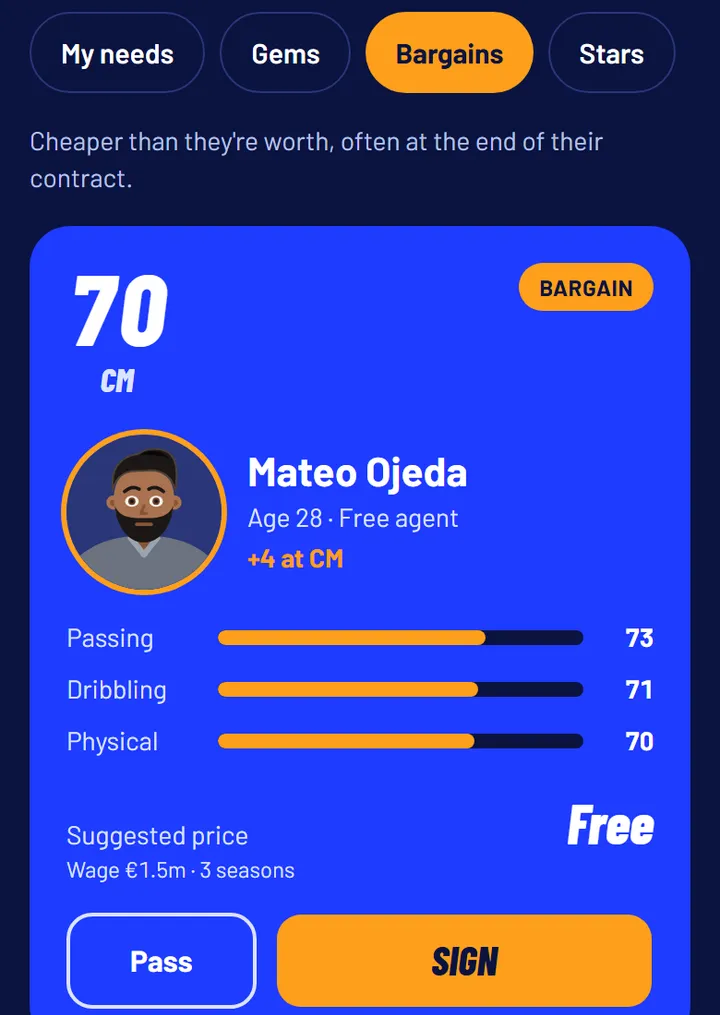
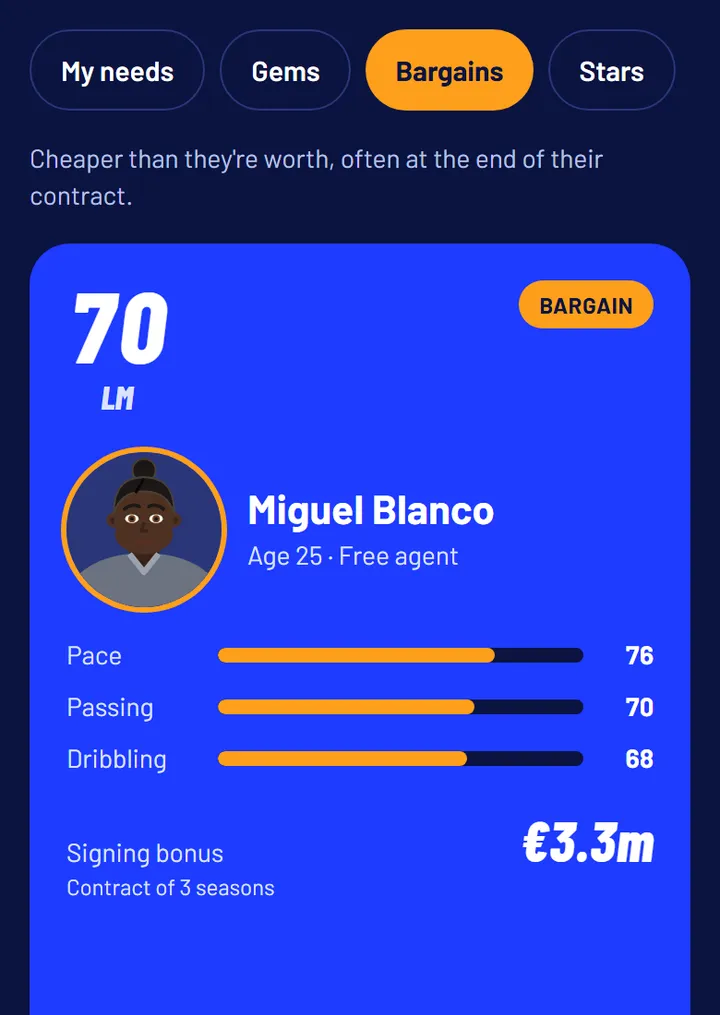
Met à jour le guide, l'accueil et ses captures pour l'adjoint
Le guide « Comment jouer » dit le budget seule limite, la prime à la
signature et les 30 joueurs, le onze que l'adjoint aligne et comment le
reprendre, et gagne une section « Ton adjoint » (composition, contrats,
ventes proposées, Club → Réglages). L'accueil reprend ces idées dans ses
paragraphes du marché et de la composition. Ses captures du marché et de la
composition sont refaites en français et en anglais, noms fictifs : un
joueur libre et sa prime à la signature, le onze de l'adjoint.

diff --git a/app/_content/how-to-play.ts b/app/_content/how-to-play.ts
@@ -1,6 +1,6 @@
 // The « How to play » guide (app/how-to-play, app/fr/comment-jouer), in French and English: from the creation of a career
-// to its first match, then the market, the line-up, the match events, the objectives, the European competitions, the
-// weekly challenge and the daily missions. In a
+// to its first match, then the market, the line-up, what the assistant takes care of, the match events, the objectives,
+// the European competitions, the weekly challenge and the daily missions. In a
 // string, **…** marks a label of the game's screens, as they read, shown in bold (GuideText, app/_components/documents).
 export type GuideBlock = string | string[]; // a paragraph, or the items of a list
 export type GuideText = { title: string; blocks: GuideBlock[] };
@@ -82,8 +82,8 @@ export const GUIDE: GuideSection[] = [
           "**Bonnes affaires** : moins chers que leur valeur",
           "**Stars** : les meilleurs, prêts à venir",
         ],
-        "**Passer** montre le suivant, **Recruter** puis **Confirmer** le signe. Tous acceptent ton club et tiennent dans ton budget transferts et ta marge salariale, ce qui reste sous ton plafond.",
-        "**Vendre** montre ce que les autres clubs offrent pour tes remplaçants. Tout se traite au mercato, du 1er juillet au 31 août, puis en janvier. **Marché complet : filtres, joueurs libres, mouvements** ouvre le reste.",
+        "**Passer** montre le suivant, **Recruter** puis **Confirmer** le signe. Tous acceptent ton club et tiennent dans ton budget transferts, ta seule limite : un joueur libre ne coûte pas d'indemnité, mais une **Prime à la signature**. Ton effectif compte 30 joueurs au plus.",
+        "Sous **Vendre**, **Ton adjoint propose** de vendre ceux qui ne jouent pas : **Vendre** les cède aussitôt à l'offre affichée, **Garder** les écarte jusqu'à la fin du mercato. Dessous, ce que les autres clubs offrent pour tes autres remplaçants. Tout se traite au mercato, du 1er juillet au 31 août, puis en janvier. **Marché complet : filtres, joueurs libres, mouvements** ouvre le reste.",
       ],
     },
     en: {
@@ -96,8 +96,8 @@ export const GUIDE: GuideSection[] = [
           "**Bargains**: cheaper than they're worth",
           "**Stars**: the best, ready to join you",
         ],
-        "**Pass** shows the next one, **Sign** then **Confirm** seals the deal. They would all join your club and fit your transfer budget and your wage room, what is left under your wage cap.",
-        "The **Sell** tab shows what other clubs offer for your substitutes. It all happens in the transfer window, from 1 July to 31 August, then in January. **Full market: filters, free agents, moves** opens the rest.",
+        "**Pass** shows the next one, **Sign** then **Confirm** seals the deal. They would all join your club and fit your transfer budget, your only limit: a free agent costs no fee, but a **Signing bonus**. Your squad holds 30 players at most.",
+        "Under **Sell**, **Your assistant suggests** selling those who never play: **Sell** lets them go at once at the offer shown, **Keep** sets them aside until the window closes. Below, what other clubs offer for your other substitutes. It all happens in the transfer window, from 1 July to 31 August, then in January. **Full market: filters, free agents, moves** opens the rest.",
       ],
     },
   },
@@ -106,19 +106,44 @@ export const GUIDE: GuideSection[] = [
     fr: {
       title: "La composition",
       blocks: [
-        "Sous **Équipe**, **Composition** fixe ton onze. Ouvre ton dispositif, **4-3-3 sentinelle** au départ : les trois conseillés pour ton effectif d'abord, les quatorze autres derrière **Voir tous les dispositifs**.",
-        "Choisis un poste pour voir ses candidats, classés par note à ce poste et étiquetés **À son poste**, **Poste secondaire**, **Dépanne** ou **Hors poste**.",
-        "**Composition automatique** aligne le onze de ton adjoint, sans blessé ni suspendu. Choisis ta **Consigne de départ**, **Attaquer**, **Équilibré** ou **Fermer**, puis touche **Enregistrer**.",
+        "Sous **Équipe**, **Composition** montre ton onze. Ton adjoint l'aligne avant chaque match, dans ton dispositif : les meilleurs selon la condition, les blessures et les suspensions. Ouvre ton dispositif, **4-3-3 sentinelle** au départ : les trois conseillés pour ton effectif d'abord, les quatorze autres derrière **Voir tous les dispositifs**.",
+        "Choisis un poste pour voir ses candidats, classés par note à ce poste et étiquetés **À son poste**, **Poste secondaire**, **Dépanne** ou **Hors poste**. Place un joueur et le onze devient le tien : **Enregistrer** le garde, ton adjoint ne remplaçant plus qu'un blessé ou un suspendu ; **Rendre la main à l'adjoint** le lui rend.",
+        "Choisis aussi ta **Consigne de départ** : **Attaquer**, **Équilibré** ou **Fermer**.",
         "La **Condition** baisse sur le terrain et remonte de 5 points par jour ; sous 70, gare aux blessures. Un rouge suspend pour le match suivant, un 5e jaune pour le prochain de la compétition.",
       ],
     },
     en: {
       title: "Your line-up",
       blocks: [
-        "Under **Squad**, **Line-up** sets your eleven. Open your formation, **4-3-3 holding** to begin with: the three recommended for your squad first, the other fourteen behind **See all formations**.",
-        "Select a position to see its candidates, ranked by their rating there and labelled **Natural position**, **Secondary position**, **Filling in** or **Out of position**.",
-        "**Automatic line-up** fields your assistant's eleven, with no injured or suspended players. Pick your **Starting instruction**, **Attack**, **Balanced** or **Sit back**, then press **Save**.",
+        "Under **Squad**, **Line-up** shows your eleven. Your assistant fields it before every match, in your formation: the best players given fitness, injuries and suspensions. Open your formation, **4-3-3 holding** to begin with: the three recommended for your squad first, the other fourteen behind **See all formations**.",
+        "Select a position to see its candidates, ranked by their rating there and labelled **Natural position**, **Secondary position**, **Filling in** or **Out of position**. Place a player and the eleven becomes yours: **Save** keeps it, your assistant then only replacing an injured or suspended player; **Hand back to your assistant** gives it back to him.",
+        "Pick your **Starting instruction** too: **Attack**, **Balanced** or **Sit back**.",
         "**Fitness** drops on the pitch and comes back by 5 points a day; below 70, injuries become likelier. A red card means a ban for the next match, a 5th yellow a ban for the competition's next match.",
+      ],
+    },
+  },
+  {
+    id: "assistant",
+    fr: {
+      title: "Ton adjoint",
+      blocks: [
+        "Ton adjoint s'occupe du quotidien de ton club, et te rend la main quand tu veux, dans **Club**, **Réglages**, sous **Ton adjoint s'occupe de** :",
+        [
+          "**Composition** : il aligne le meilleur onze avant chaque match, dans ton dispositif",
+          "**Contrats** : en fin de saison, il prolonge les joueurs utiles et laisse partir les autres ; avant de laisser partir un titulaire, il te prévient dans **À faire**",
+        ],
+        "Sur la fiche d'un joueur en fin de contrat, tu choisis toi-même : **Le prolonger** ou **Le laisser partir**. Au mercato, ton adjoint te propose aussi de vendre ceux qui ne jouent pas, sous **Marché**, **Vendre**.",
+      ],
+    },
+    en: {
+      title: "Your assistant",
+      blocks: [
+        "Your assistant takes care of your club's day-to-day, and hands it back whenever you like, in **Club**, **Settings**, under **Your assistant takes care of**:",
+        [
+          "**Line-up**: he fields the best eleven before every match, in your formation",
+          "**Contracts**: at the end of the season, he renews the useful players and lets the others go; before letting a starter go, he warns you in **To do**",
+        ],
+        "On the sheet of a player whose contract is ending, you decide yourself: **Extend him** or **Let him go**. In the transfer window, your assistant also suggests selling those who never play, under **Market**, **Sell**.",
       ],
     },
   },

diff --git a/app/_components/documents/documents.test.tsx b/app/_components/documents/documents.test.tsx
@@ -43,7 +43,7 @@ describe("the guide", () => {
   it("has its ten sections in both languages, each an anchor of its table of contents, and the way to the game", () => {
     for (const locale of LOCALES) {
       const markup = renderToStaticMarkup(<HowToPlayDocument locale={locale} />);
-      expect(GUIDE.map(({ id }) => id)).toEqual(["create", "first-match", "market", "lineup", "events", "objectives", "europe", "internationals", "challenge", "missions"]);
+      expect(GUIDE.map(({ id }) => id)).toEqual(["create", "first-match", "market", "lineup", "assistant", "events", "objectives", "europe", "internationals", "challenge", "missions"]);
       for (const { id } of GUIDE) {
         expect(markup).toContain(`<section id="${id}"`);
         expect(markup).toContain(`href="#${id}"`);
